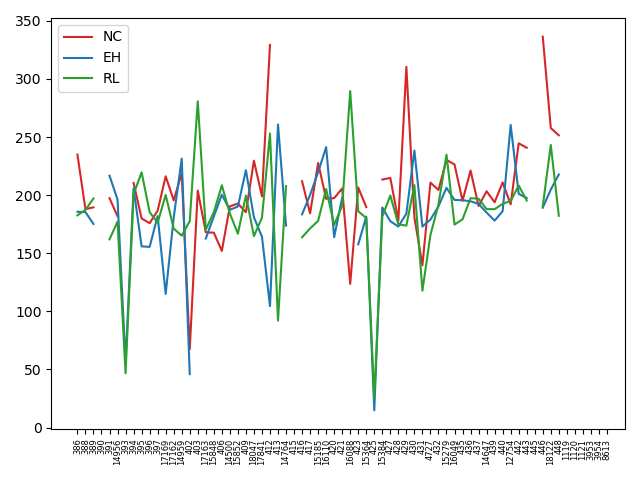
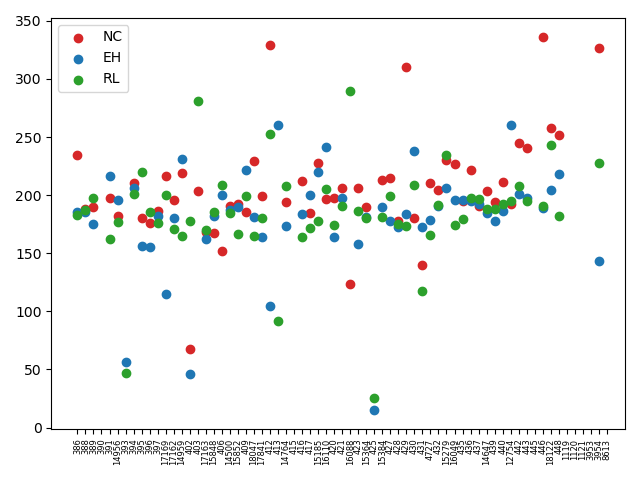
post processor class

diff --git a/src/04_SIMULATION/output.py b/src/04_SIMULATION/output.py
@@ -12,27 +12,45 @@ class PostProcessor:
 
     def headway(self):
         hw_set = []
+        sd_hw_at_tp = []
         for trips in self.cp_trips:
-            temp_hw, _ = get_headway_from_trajectory_set(trips, IDX_PICK, IDX_DENIED, IDX_ARR_T)
+            temp_hw, _, hw_at_tp = get_headway_from_trajectory_set(trips, IDX_PICK, IDX_DENIED, IDX_ARR_T,
+                                                                   controlled_stops=CONTROLLED_STOPS)
             hw_set.append(temp_hw)
+
+            sd_hw_at_tp.append(np.array(hw_at_tp).std())
         plot_headway_benchmark(hw_set, STOPS, self.cp_tags, self.colors, pathname='out/benchmark/hw.png',
                                controlled_stops=CONTROLLED_STOPS)
+        # print(sd_hw_at_tp)
         return
 
     def total_trip_time_distribution(self):
         trip_time_set = []
         for trip in self.cp_trips:
-            trip_time_set.append(tot_trip_times_from_trajectory_set(trip, IDX_DEP_T, IDX_ARR_T))
+            trip_time = tot_trip_times_from_trajectory_set(trip, IDX_DEP_T, IDX_ARR_T)
+            trip_time_set.append(trip_time)
+        std_run_times = []
+        extr_run_times = []
+        for t in trip_time_set:
+            t_arr = np.array(t)
+            std_run_times.append(t_arr.std())
+            extr_run_times.append(np.percentile(t_arr, 95))
+        # print(std_run_times)
+        # print(extr_run_times)
         plot_travel_time_benchmark(trip_time_set, self.cp_tags, self.colors, pathname='out/benchmark/ttd.png')
         return
 
     def load_profile(self):
         load_profile_set = []
+        lp_std_set = []
         for trips in self.cp_trips:
-            temp_lp, _, _, _, _, _ = pax_per_trip_from_trajectory_set(trips, IDX_LOAD, IDX_PICK, IDX_DROP)
+            temp_lp, temp_lp_std, _, _, _, _ = pax_per_trip_from_trajectory_set(trips, IDX_LOAD, IDX_PICK, IDX_DROP)
             load_profile_set.append(temp_lp)
+            lp_std_set.append(temp_lp_std)
         plot_load_profile_benchmark(load_profile_set, STOPS, self.cp_tags, self.colors, pathname='out/benchmark/lp.png',
                                     controlled_stops=CONTROLLED_STOPS, x_y_lbls=['stop id', 'avg load per trip'])
+        plot_load_profile_benchmark(lp_std_set, STOPS, self.cp_tags, self.colors, pathname='out/benchmark/lp_sd.png',
+                                    controlled_stops=CONTROLLED_STOPS, x_y_lbls=['stop id', 'sd load per trip'])
         return
 
     def hold_time(self):
@@ -57,20 +75,33 @@ class PostProcessor:
 
     def wait_times(self):
         wait_time_set = []
+        percentile_wt_set = []
         for pax in self.cp_pax:
-            wt_mean, wt_std = get_wait_times(pax, STOPS)
+            wt_mean, wt_std, percentile_wt = get_wait_times(pax, STOPS)
             wait_time_set.append(wt_mean)
+            percentile_wt_set.append(percentile_wt)
         plot_wait_time_benchmark(wait_time_set, STOPS, self.cp_tags, self.colors, pathname='out/benchmark/wt.png')
         return
 
     def rbt_difference(self, a, b):
         idx1 = self.cp_tags.index(a)
         idx2 = self.cp_tags.index(b)
-        _, _, rbt1, _ = get_journey_times(self.cp_pax[idx1], STOPS)
-        _, _, rbt2, _ = get_journey_times(self.cp_pax[idx2], STOPS)
+        _, _, rbt1, _, _, _ = get_journey_times(self.cp_pax[idx1], STOPS)
+        _, _, rbt2, _, _, _ = get_journey_times(self.cp_pax[idx2], STOPS)
         plot_difference_od(rbt1-rbt2, STOPS, controlled_stops=CONTROLLED_STOPS,
                            pathname='out/benchmark/rbt_diff_'+self.cp_tags[idx1] + '_' + self.cp_tags[idx2] + '.png',
                            clim=(-250, 250))
+        return
+
+    def journey_times(self):
+        jt_sums = []
+        extr_jt_sums = []
+        for pax in self.cp_pax:
+            _, _, _, _, jt_sum, extr_jt_sum = get_journey_times(pax, STOPS)
+            jt_sums.append(jt_sum)
+            extr_jt_sums.append(extr_jt_sum)
+        # print(jt_sums)
+        # print(extr_jt_sums)
         return
 
     def params_for_policy(self, tag='RL'):

diff --git a/src/04_SIMULATION/post_process.py b/src/04_SIMULATION/post_process.py
@@ -227,12 +227,13 @@ def plot_load_profile(bd, al, l, os, l_dev=None, pathname=None, x_y_lbls=None, c
     return
 
 
-def get_headway_from_trajectory_set(trajectory_set, idx_ons, idx_denied, idx_arr_t):
+def get_headway_from_trajectory_set(trajectory_set, idx_ons, idx_denied, idx_arr_t, controlled_stops=None):
     recorded_headway = {}
     tot_wait_time = {}
     wait_time = {}
     wait_time_from_hw = {}
     tot_boardings = {}
+    hw_at_tp = []
     for trajectories in trajectory_set:
         prev_stop_time = {}
         prev_denied = {}
@@ -249,6 +250,8 @@ def get_headway_from_trajectory_set(trajectory_set, idx_ons, idx_denied, idx_arr
                     t1 = prev_stop_time[stop_id]
                     t2 = stop_time
                     headway = t2 - t1
+                    if stop_id in controlled_stops:
+                        hw_at_tp.append(headway)
                     prev_denied_ = prev_denied[stop_id]
                     if stop_id not in recorded_headway:
                         recorded_headway[stop_id] = [headway]
@@ -268,7 +271,7 @@ def get_headway_from_trajectory_set(trajectory_set, idx_ons, idx_denied, idx_arr
         cv_headway = headway.std() / mean_headway
         wait_time_from_hw[s] = (mean_headway / 2) * (1 + (cv_headway * cv_headway))
 
-    return recorded_headway, wait_time
+    return recorded_headway, wait_time, hw_at_tp
 
 
 def pax_per_trip_from_trajectory_set(trajectory_set, idx_load, idx_ons, idx_offs):
@@ -648,7 +651,10 @@ def get_wait_times(pax_set, ordered_stops):
         if not wt.empty:
             stop_wait_time_mean[i] = wt.mean()
             stop_wait_time_std[i] = wt.std()
-    return stop_wait_time_mean, stop_wait_time_std
+    stop_nr = ordered_stops.index('443')
+    point_wt = wait_times_df[(wait_times_df['o'] == stop_nr)]['wt']
+    point_wt = point_wt.quantile(0.8)
+    return stop_wait_time_mean, stop_wait_time_std, point_wt
 
 
 def get_journey_times(pax_set, ordered_stops):
@@ -668,6 +674,10 @@ def get_journey_times(pax_set, ordered_stops):
     od_journey_time_std[:] = np.nan
     od_journey_time_rbt = np.zeros(shape=(n,)*2)
     od_journey_time_rbt[:] = np.nan
+    od_extr_journey_time_mean = np.zeros(shape=(n,)*2)
+    od_extr_journey_time_mean[:] = np.nan
+    od_journey_time_sum = np.zeros(shape=(n,)*2)
+    od_journey_time_sum[:] = np.nan
     od_count = np.zeros(shape=(n,)*2)
     for i in range(n):
         for j in range(i + 1, n):
@@ -677,7 +687,11 @@ def get_journey_times(pax_set, ordered_stops):
                 od_journey_time_mean[i, j] = jt.mean()
                 od_journey_time_std[i, j] = jt.std()
                 od_journey_time_rbt[i, j] = jt.quantile(0.8) - jt.median()
-    return od_journey_time_mean, od_journey_time_std, od_journey_time_rbt, od_count
+                od_extr_journey_time_mean[i, j] = jt.quantile(0.95)
+                od_journey_time_sum[i, j] = jt.sum()
+    jt_sum = np.nansum(od_journey_time_sum) / 3600
+    extr_jt_sum = np.nansum(od_extr_journey_time_mean) / 3600
+    return od_journey_time_mean, od_journey_time_std, od_journey_time_rbt, od_count, jt_sum, extr_jt_sum
 
 
 def plot_travel_time_benchmark(tt_set, lbls, colors, pathname=None):
@@ -857,7 +871,7 @@ def plot_wait_time_benchmark(wt_set, os, lbl, colors, pathname=None):
     fig, ax = plt.subplots()
     j = 0
     for wt in wt_set:
-        ax.plot(np.arange(len(wt)), wt, label=lbl[j], color=colors[j])
+        ax.scatter(np.arange(len(wt)), wt, label=lbl[j], color=colors[j])
         j += 1
     ax.set_xticks(np.arange(len(os)))
     ax.set_xticklabels(os, fontsize=6, rotation=90)

diff --git a/src/04_SIMULATION/main_simul.py b/src/04_SIMULATION/main_simul.py
@@ -50,21 +50,22 @@ def run_base_control_detailed(episodes=2, save=False, time_dep_tt=True, time_dep
 
 # run_base_detailed(episodes=10, save=True)
 # run_base_control_detailed(episodes=10, save=True)
-# path_tr_nc = 'out/NC/trajectories_set_1127-23141995.pkl'
-# path_p_nc = 'out/NC/pax_set_1127-23141995.pkl'
-# path_tr_eh = 'out/EH/trajectories_set_1127-23142153.pkl'
-# path_p_eh = 'out/EH/pax_set_1127-23142153.pkl'
-# path_tr_rl = 'out/RL/trajectory_set_1127-23181992.pkl'
-# path_p_rl = 'out/RL/pax_set_1127-23181992.pkl'
-# path_trips = [path_tr_nc, path_tr_eh, path_tr_rl]
-# path_pax = [path_p_nc, path_p_eh, path_p_rl]
-# tags = ['NC', 'EH', 'RL']
-# post_processor = PostProcessor(path_trips, path_pax, tags)
-# post_processor.headway()
+path_tr_nc = 'out/NC/trajectories_set_1127-23141995.pkl'
+path_p_nc = 'out/NC/pax_set_1127-23141995.pkl'
+path_tr_eh = 'out/EH/trajectories_set_1127-23142153.pkl'
+path_p_eh = 'out/EH/pax_set_1127-23142153.pkl'
+path_tr_rl = 'out/RL/trajectory_set_1127-23181992.pkl'
+path_p_rl = 'out/RL/pax_set_1127-23181992.pkl'
+path_trips = [path_tr_nc, path_tr_eh, path_tr_rl]
+path_pax = [path_p_nc, path_p_eh, path_p_rl]
+tags = ['NC', 'EH', 'RL']
+post_processor = PostProcessor(path_trips, path_pax, tags)
+post_processor.headway()
 # post_processor.denied()
 # post_processor.hold_time()
 # post_processor.load_profile()
 # post_processor.wait_times()
 # post_processor.total_trip_time_distribution()
 # post_processor.rbt_difference('NC', 'RL')
+# post_processor.journey_times()
 print("ran in %.2f seconds" % (time.time()-st))
